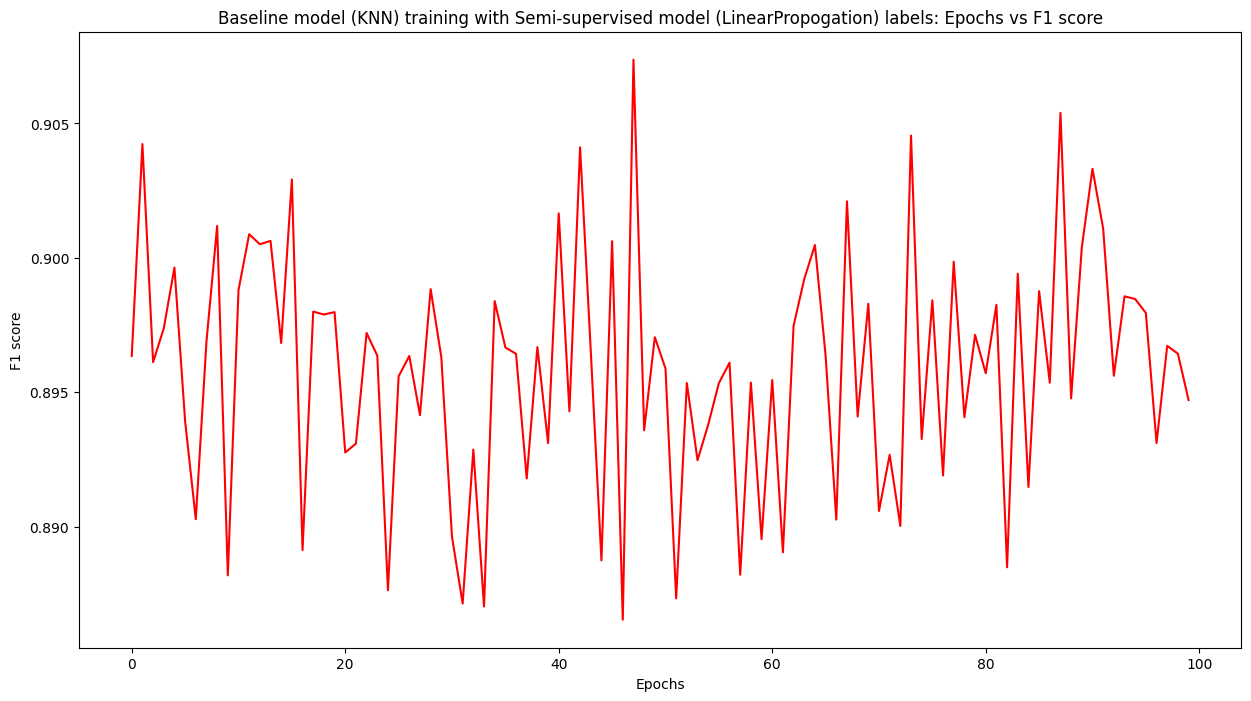
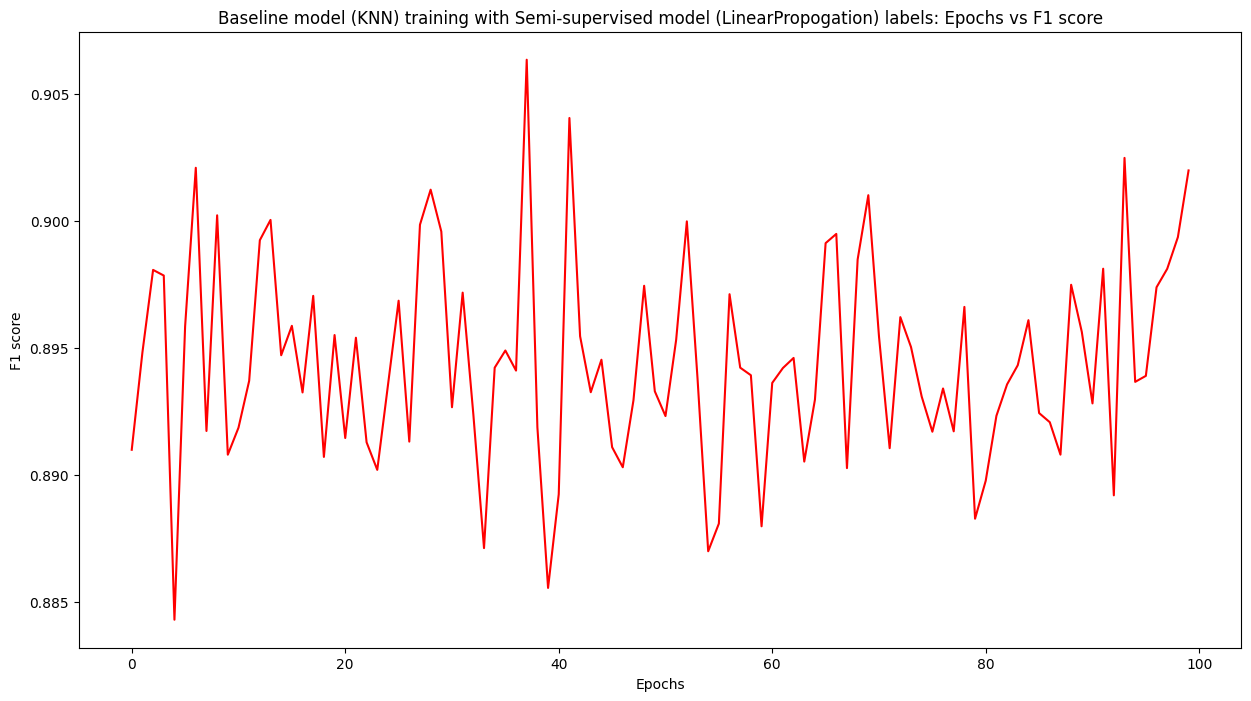
Task 2: Convert to OOP

diff --git a/Task2/ss.py b/Task2/ss.py
@@ -1,0 +1,126 @@
+from platform import processor
+import pandas as pd
+import numpy as np
+from collections import Counter
+import matplotlib.pyplot as plt
+
+from imblearn.over_sampling import SMOTE
+from imblearn.under_sampling import RandomUnderSampler
+from imblearn.pipeline import Pipeline
+
+from sklearn.model_selection import train_test_split
+from sklearn.svm import SVC
+from sklearn.neighbors import KNeighborsClassifier
+from sklearn.metrics import f1_score
+from sklearn.semi_supervised import LabelPropagation
+from sklearn.preprocessing import StandardScaler
+
+RANDOM_STATE = 42
+
+class SemiSupervised:
+
+    def __init__(self, df: pd.DataFrame, neighbors: int) -> None:
+        self.df = df
+
+        over = SMOTE(sampling_strategy=0.1)
+        under = RandomUnderSampler(sampling_strategy=0.5)
+        steps = [("o", over), ("u", under)]
+        self.pipeline = Pipeline(steps = steps)
+
+        self.scalar = StandardScaler()
+
+        self.baseline_model = KNeighborsClassifier(n_neighbors = neighbors)
+        self.semi_supervised = LabelPropagation(kernel = "knn", n_neighbors = neighbors)
+        self.baseline_2 = KNeighborsClassifier(n_neighbors = neighbors)
+    
+    def processData(self):
+        X1 = self.df.iloc[:, 0:-1].values
+        y1 = self.df.iloc[:, -1].values
+
+        return X1, y1
+    
+    def balanceData(self, X, y):
+        X_bal, y_bal = self.pipeline.fit_resample(X, y)
+        X_scale = self.scalar.fit_transform(X_bal)
+
+        return X_scale, y_bal
+    
+    def splitData(self, X, y):
+        X_TRAIN, X_TEST, Y_TRAIN, Y_TEST = train_test_split(X, y, test_size=0.2, stratify=y)
+        X_TRAIN_UNLAB, X_TRAIN_LAB, Y_TRAIN_UNLAB, Y_TRAIN_LAB = train_test_split(X_TRAIN, Y_TRAIN, test_size=0.3, stratify=Y_TRAIN)
+
+        baseline_data = (X_TRAIN, X_TEST, Y_TRAIN, Y_TEST)
+        semi_supervised_data = (X_TRAIN_UNLAB, X_TRAIN_LAB, Y_TRAIN_UNLAB, Y_TRAIN_LAB)
+
+        return baseline_data, semi_supervised_data
+
+    def task1(self, X, y, X_test, y_test):
+        self.baseline_model.fit(X, y)
+        pred = self.baseline_model.predict(X_test)
+        score = f1_score(y_test, pred)
+
+        return score
+    
+    def task2(self, train_data, X_test, y_test):
+        X_TRAIN_UNLAB, X_TRAIN_LAB, Y_TRAIN_UNLAB, Y_TRAIN_LAB = train_data
+
+        Y_TRAIN_UNLAB[:] = -1
+        X = np.concatenate((X_TRAIN_LAB, X_TRAIN_UNLAB))
+        y = np.concatenate((Y_TRAIN_LAB, Y_TRAIN_UNLAB))
+
+        self.semi_supervised.fit(X, y)
+        pred = self.semi_supervised.predict(X_test)
+        score = f1_score(y_test, pred)
+
+        y_transduction = self.semi_supervised.transduction_
+
+        return score, X, y_transduction
+    
+    def task3(self, X, y, X_test, y_test):
+        self.baseline_2.fit(X, y)
+        pred = self.baseline_2.predict(X_test)
+        score = f1_score(y_test, pred)
+
+        return score
+
+    def getClassRatio(self, y):
+        res = []
+
+        for x in y:
+            c = Counter(x)
+            res.append(c[0]/c[1])
+        
+        print(f"Train ratio: {res[0]} \nTest ratio: {res[1]}")
+    
+    def run(self, epochs = 100):
+        s1 = []
+        s2 = []
+        s3 = []
+
+        for i in range(epochs):
+            print("------------")
+            print(f"Run: {i + 1}")
+
+            X, y = self.processData()
+            X_bal, y_bal = self.balanceData(X, y)
+
+            baseline_data, semi_supervised_data = self.splitData(X_bal, y_bal)
+            (X_TRAIN, X_TEST, Y_TRAIN, Y_TEST) = baseline_data
+            (X_TRAIN_UNLAB, X_TRAIN_LAB, Y_TRAIN_UNLAB, Y_TRAIN_LAB) = semi_supervised_data
+
+            self.getClassRatio([Y_TRAIN, Y_TEST])
+
+            score = self.task1(X_TRAIN_LAB, Y_TRAIN_LAB, X_TEST, Y_TEST)
+            print(f"Baseline score: {score}")
+            s1.append(score)
+
+            train_data = [X_TRAIN_UNLAB, X_TRAIN_LAB, Y_TRAIN_UNLAB, Y_TRAIN_LAB]
+            score, X_transduction, y_transduction = self.task2(train_data, X_TEST, Y_TEST)
+            print(f"Semi-supervised score: {score}")
+            s2.append(score)
+
+            score = self.task3(X_transduction, y_transduction, X_TEST, Y_TEST)
+            print(f"Baseline with labels score: {score}")
+            s3.append(score)
+
+        return s1, s2, s3

diff --git a/Task2/test.py b/Task2/test.py
@@ -2,7 +2,7 @@ import pandas as pd
 import numpy as np
 import matplotlib.pyplot as plt
 
-from temp import SemiSupervised
+from ss import SemiSupervised
 
 if __name__ == "__main__":
     df = pd.read_csv("data/creditcard.csv")
